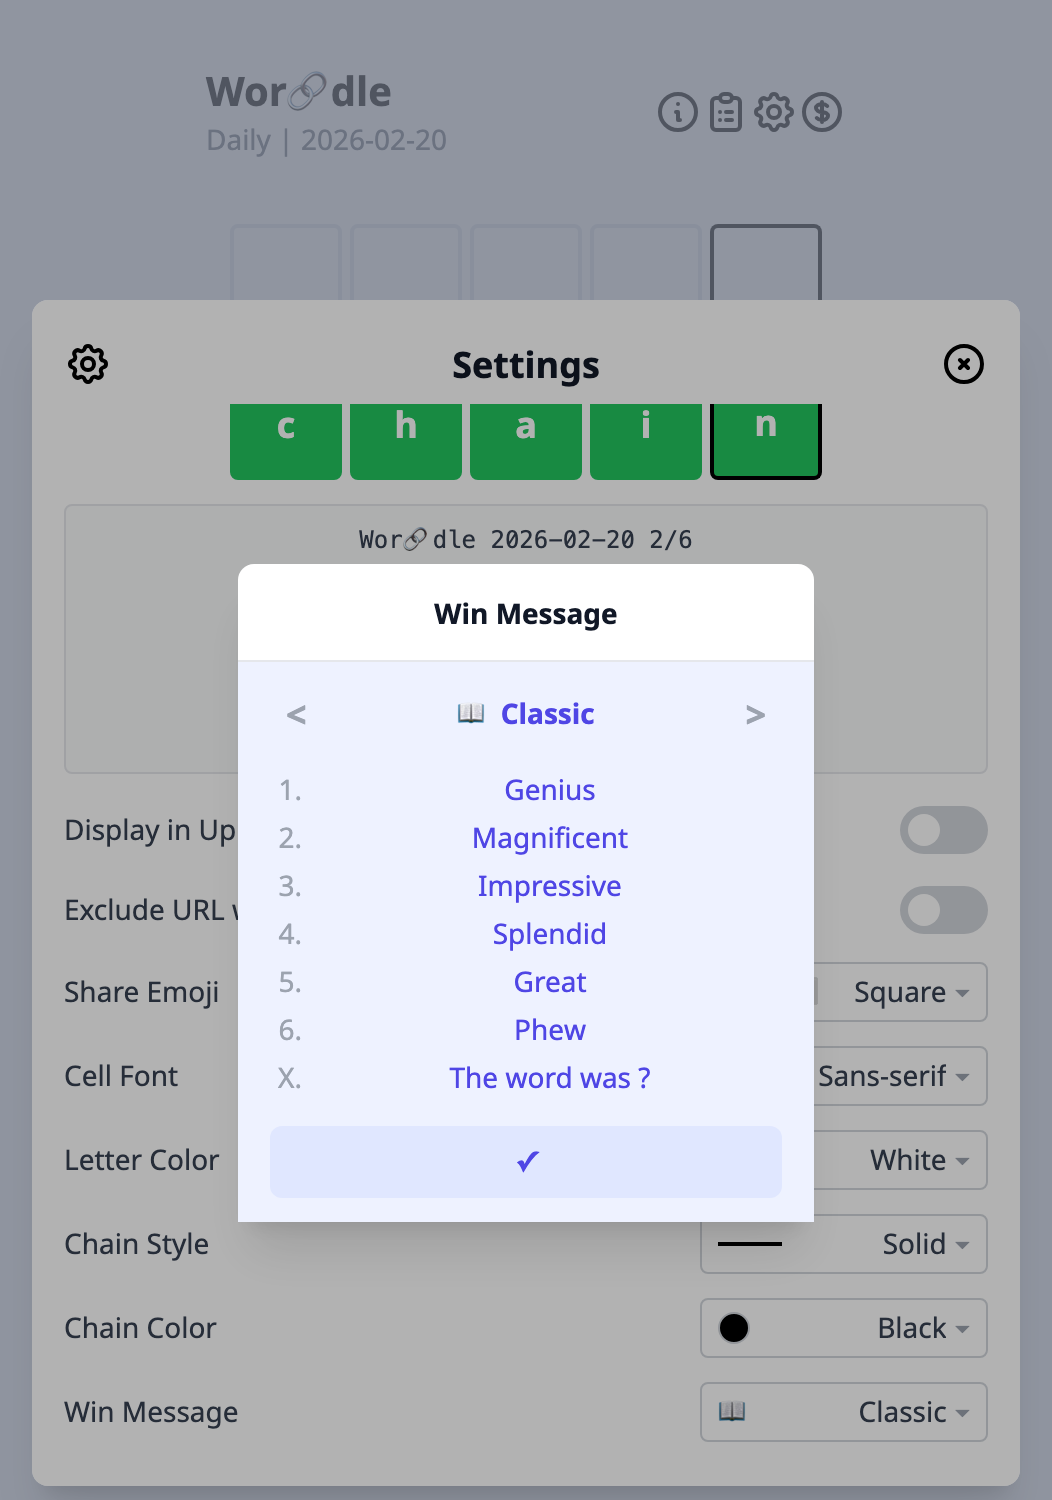
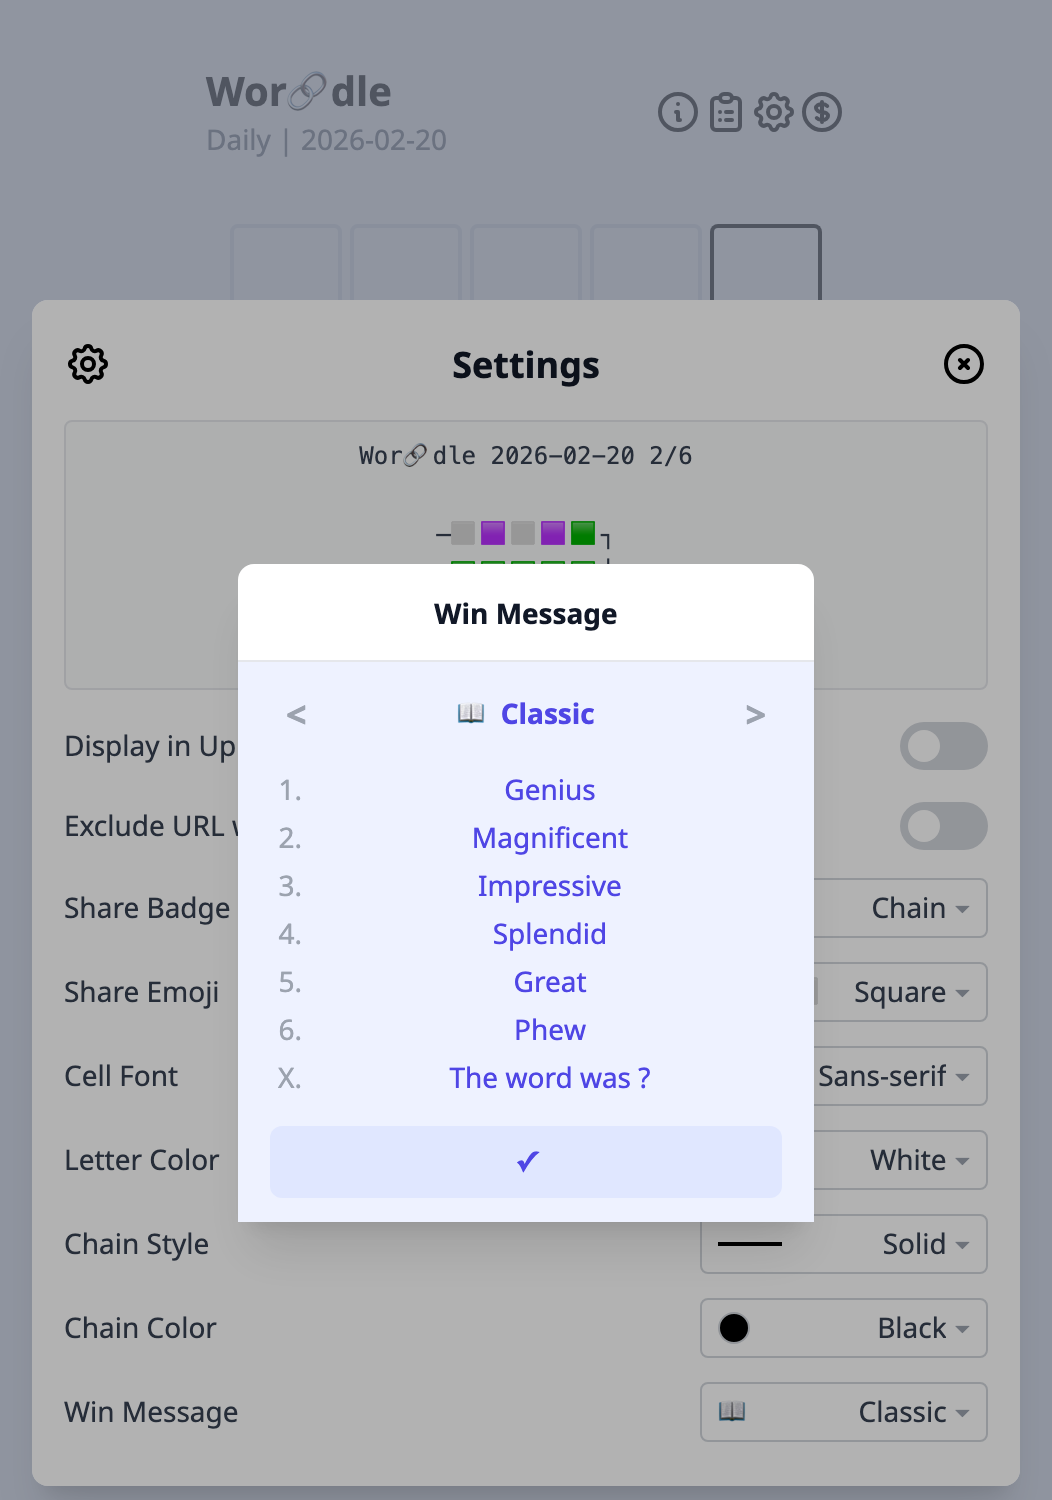
docs: update README for v1.6.0

Changed region(s): [[0.2129, 0.2453, 0.7909, 0.368], [0.0608, 0.4907, 0.2129, 0.6133], [0.8213, 0.46, 0.943, 0.644]]

diff --git a/scripts/generate-readme-screenshots.spec.ts b/scripts/generate-readme-screenshots.spec.ts
@@ -9,7 +9,10 @@ import {
 import { PATCH_NOTES_VERSION } from '../src/constants/config'
 
 // Skip unless explicitly opted in via: GENERATE_SCREENSHOTS=1 npm run readme:screenshots
-test.skip(() => !process.env.GENERATE_SCREENSHOTS, 'Set GENERATE_SCREENSHOTS=1 to run')
+test.skip(
+  () => !process.env.GENERATE_SCREENSHOTS,
+  'Set GENERATE_SCREENSHOTS=1 to run'
+)
 
 const ASSETS = path.resolve(__dirname, '..', 'assets')
 const HYDRO_PATH = `/#/custom/${encodeCustomPuzzle('hydro', 'ootzk')}`
@@ -29,9 +32,7 @@ async function initPage(page: Page) {
     window.addEventListener('keydown', (e) => {
       if (
         e.code === 'Backspace' &&
-        !['INPUT', 'TEXTAREA'].includes(
-          (document.activeElement?.tagName ?? '')
-        )
+        !['INPUT', 'TEXTAREA'].includes(document.activeElement?.tagName ?? '')
       ) {
         e.preventDefault()
       }
@@ -70,7 +71,9 @@ test('game flow: empty board → win → success', async ({ page }) => {
   await submitWord(page, 'hydr')
 
   // Wait for success alert
-  await page.locator('.bg-green-200').waitFor({ state: 'visible', timeout: 3000 })
+  await page
+    .locator('.bg-green-200')
+    .waitFor({ state: 'visible', timeout: 3000 })
   await page.waitForTimeout(500)
   await save(page, 'success')
 })
@@ -102,7 +105,9 @@ test('daily statistics modal', async ({ page }) => {
   await waitForGameReady(page)
 
   // Stats modal auto-opens (completed game detected)
-  await page.locator('text=Statistics').waitFor({ state: 'visible', timeout: 8000 })
+  await page
+    .locator('text=Statistics')
+    .waitFor({ state: 'visible', timeout: 8000 })
   await page.waitForTimeout(500)
   await save(page, 'statistics')
 })
@@ -116,15 +121,17 @@ test('dead end scenario', async ({ page }) => {
 
   // Guesses 1-3: same as win scenario
   await submitWord(page, 'shake') // 1. SHAKE → chain E right
-  await submitWord(page, 'lanc')  // 2. LANCE → chain L left
-  await submitWord(page, 'ores')  // 3. LORES → chain S right
+  await submitWord(page, 'lanc') // 2. LANCE → chain L left
+  await submitWord(page, 'ores') // 3. LORES → chain S right
 
   // Guesses 4-5: diverge to create dead end
-  await submitWord(page, 'feat')  // 4. FEATS (S locked) → chain F left
-  await submitWord(page, 'lint')  // 5. FLINT (F locked) → chain T right → T ≠ O → dead end!
+  await submitWord(page, 'feat') // 4. FEATS (S locked) → chain F left
+  await submitWord(page, 'lint') // 5. FLINT (F locked) → chain T right → T ≠ O → dead end!
 
   // Wait for dead-end loss alert
-  await page.locator('text=The word was hydro').waitFor({ state: 'visible', timeout: 3000 })
+  await page
+    .locator('text=The word was hydro')
+    .waitFor({ state: 'visible', timeout: 3000 })
   await page.waitForTimeout(500)
   await save(page, 'dead-end')
 })
@@ -146,7 +153,10 @@ test('monthly calendar with history', async ({ page }) => {
   const end = new Date('2026-03-12T00:00:00Z')
   for (let dt = new Date(epoch); dt < end; dt.setUTCDate(dt.getUTCDate() + 1)) {
     const d = dt.getUTCDate()
-    const key = `${dt.getUTCFullYear()}-${String(dt.getUTCMonth() + 1).padStart(2, '0')}-${String(d).padStart(2, '0')}`
+    const key = `${dt.getUTCFullYear()}-${String(dt.getUTCMonth() + 1).padStart(
+      2,
+      '0'
+    )}-${String(d).padStart(2, '0')}`
     const won = d % 5 !== 0
     history[key] = { guessCount: won ? (d % 4) + 2 : 6, won }
   }
@@ -242,10 +252,26 @@ test('patch notes modal', async ({ page }) => {
     localStorage.setItem('i18nextLng', 'en')
   })
   await page.goto('/')
-  await page.locator('button', { hasText: 'Enter' }).waitFor({ state: 'visible' })
-  await page.getByRole('heading', { name: "What's New" }).waitFor({ state: 'visible', timeout: 5000 })
+  await page
+    .locator('button', { hasText: 'Enter' })
+    .waitFor({ state: 'visible' })
+  await page
+    .getByRole('heading', { name: "What's New" })
+    .waitFor({ state: 'visible', timeout: 5000 })
   await page.waitForTimeout(500)
   await save(page, 'patch-note')
+})
+
+test('patch notes history tab', async ({ page }) => {
+  await initPage(page)
+  await page.goto('/')
+  await waitForGameReady(page)
+
+  await page.locator('svg.h-6.w-6.cursor-pointer').nth(0).click()
+  await page.locator('text=Information').waitFor({ state: 'visible' })
+  await page.locator('text=Patch Notes').click()
+  await page.waitForTimeout(500)
+  await save(page, 'patch-notes-history')
 })
 
 test('practice mode', async ({ page }) => {
@@ -284,7 +310,9 @@ test('donate modal', async ({ page }) => {
 test('create puzzle — copied state', async ({ page }) => {
   await initPage(page)
   await page.goto('/#/create')
-  await page.locator('button', { hasText: 'Enter' }).waitFor({ state: 'visible' })
+  await page
+    .locator('button', { hasText: 'Enter' })
+    .waitFor({ state: 'visible' })
 
   // Enter questioner name
   await page.locator('input[placeholder]').fill('ootzk')
@@ -312,7 +340,7 @@ test('custom puzzle — playing', async ({ page }) => {
   await save(page, 'custom-puzzle')
 })
 
-// ── v1.5.0: Achievements & Cosmetics Screenshots ──
+// ── v1.5.0+v1.6.0: Achievements & Cosmetics Screenshots ──
 
 test('achievements tab with unlocked and locked', async ({ page }) => {
   await initPage(page)
@@ -329,18 +357,37 @@ test('achievements tab with unlocked and locked', async ({ page }) => {
     }
     localStorage.setItem('gameStats', JSON.stringify(stats))
     const now = Date.now()
-    localStorage.setItem('achievementState', JSON.stringify({
-      version: 1,
-      unlocked: {
-        play_10: { unlockedAt: now },
-        win_in_4: { unlockedAt: now },
-        win_in_5: { unlockedAt: now },
-        win_in_6: { unlockedAt: now },
-        streak_3: { unlockedAt: now },
-      },
-      retroCompleted: true,
-      lastSeenAt: 0,
-    }))
+    localStorage.setItem(
+      'achievementState',
+      JSON.stringify({
+        version: 2,
+        unlocked: {
+          play_10: { unlockedAt: now },
+          win_in_4: { unlockedAt: now },
+          win_in_5: { unlockedAt: now },
+          win_in_6: { unlockedAt: now },
+          streak_3: { unlockedAt: now },
+          played_v1_6_0_5: { unlockedAt: now },
+          practice_win_100: { unlockedAt: now },
+          custom_win_10: { unlockedAt: now },
+        },
+        retroCompleted: true,
+        lastSeenAt: 0,
+      })
+    )
+    localStorage.setItem(
+      'achievementProgress',
+      JSON.stringify({
+        modes: {
+          daily: { gamesCompleted: 22, gamesWon: 19 },
+          practice: { gamesCompleted: 118, gamesWon: 100 },
+          custom: { gamesCompleted: 10, gamesWon: 10 },
+        },
+        versions: {
+          '1.6.0': { gamesCompleted: 5 },
+        },
+      })
+    )
   })
 
   await page.goto('/')
@@ -360,26 +407,36 @@ test('settings with cosmetics and sample view', async ({ page }) => {
   // Unlock some achievements for cosmetic options
   await page.addInitScript(() => {
     const now = Date.now()
-    localStorage.setItem('achievementState', JSON.stringify({
-      version: 1,
-      unlocked: {
-        play_10: { unlockedAt: now },
-        streak_3: { unlockedAt: now },
-        win_in_6: { unlockedAt: now },
-      },
-      retroCompleted: true,
-    }))
-    // Equip circle emoji to show cosmetic effect in sample view
-    localStorage.setItem('cosmeticState', JSON.stringify({
-      equipped: {
-        shareEmoji: 'emoji_circle',
-        cellFont: 'font_default',
-        cellColor: 'color_default',
-        chainStyle: 'chain_default',
-        chainColor: 'chaincolor_black',
-        endMessage: 'msg_classic',
-      },
-    }))
+    localStorage.setItem(
+      'achievementState',
+      JSON.stringify({
+        version: 2,
+        unlocked: {
+          play_10: { unlockedAt: now },
+          streak_3: { unlockedAt: now },
+          win_in_6: { unlockedAt: now },
+          streak_14: { unlockedAt: now },
+          bibimbap_balance: { unlockedAt: now },
+          yogurt_recipe: { unlockedAt: now },
+        },
+        retroCompleted: true,
+      })
+    )
+    // Equip v1.6.0 cosmetics to show their effect in the sample/share preview.
+    localStorage.setItem(
+      'cosmeticState',
+      JSON.stringify({
+        equipped: {
+          shareBadge: 'badge_fire',
+          shareEmoji: 'emoji_bibimbap',
+          cellFont: 'font_default',
+          cellColor: 'color_default',
+          chainStyle: 'chain_default',
+          chainColor: 'chaincolor_black',
+          endMessage: 'msg_classic',
+        },
+      })
+    )
   })
 
   await page.goto('/')
@@ -397,14 +454,20 @@ test('cosmetic picker popup', async ({ page }) => {
 
   await page.addInitScript(() => {
     const now = Date.now()
-    localStorage.setItem('achievementState', JSON.stringify({
-      version: 1,
-      unlocked: {
-        play_10: { unlockedAt: now },
-        streak_3: { unlockedAt: now },
-      },
-      retroCompleted: true,
-    }))
+    localStorage.setItem(
+      'achievementState',
+      JSON.stringify({
+        version: 2,
+        unlocked: {
+          play_10: { unlockedAt: now },
+          streak_3: { unlockedAt: now },
+          win_in_3: { unlockedAt: now },
+          bibimbap_balance: { unlockedAt: now },
+          yogurt_recipe: { unlockedAt: now },
+        },
+        retroCompleted: true,
+      })
+    )
   })
 
   await page.goto('/')
@@ -423,14 +486,17 @@ test('alert message theme picker', async ({ page }) => {
 
   await page.addInitScript(() => {
     const now = Date.now()
-    localStorage.setItem('achievementState', JSON.stringify({
-      version: 1,
-      unlocked: {
-        win_in_6: { unlockedAt: now },
-        streak_30: { unlockedAt: now },
-      },
-      retroCompleted: true,
-    }))
+    localStorage.setItem(
+      'achievementState',
+      JSON.stringify({
+        version: 2,
+        unlocked: {
+          win_in_6: { unlockedAt: now },
+          streak_30: { unlockedAt: now },
+        },
+        retroCompleted: true,
+      })
+    )
   })
 
   await page.goto('/')

diff --git a/scripts/readme-screenshots.config.ts b/scripts/readme-screenshots.config.ts
@@ -1,4 +1,7 @@
 import { defineConfig } from '@playwright/test'
+import path from 'path'
+
+const ROOT = path.resolve(__dirname, '..')
 
 export default defineConfig({
   testDir: '.',
@@ -23,9 +26,10 @@ export default defineConfig({
   ],
 
   webServer: {
-    command: 'npm run build && npx serve -s build -l 3000',
+    command: 'env PUBLIC_URL=/ npm run build && npx serve -s build -l 3000',
+    cwd: ROOT,
     url: 'http://localhost:3000',
     reuseExistingServer: true,
-    timeout: 120_000,
+    timeout: 180_000,
   },
 })

diff --git a/README.md b/README.md
@@ -89,10 +89,14 @@ ootzk.github.io/Wor-chain-dle
 
 ## Features
 
-New features are introduced through a one-time "What's New" popup on your first visit after an update.
+### Patch Notes & Update History
+
+New features are introduced through a one-time "What's New" popup on your first visit after an update. The Information modal also includes a Patch Notes tab, so you can browse previous updates by version and release date.
 
 <p align="center">
-  <img src="assets/patch-note.png" alt="What's New in v1.4.0" width="300" />
+  <img src="assets/patch-note.png" alt="What's New in v1.6.0" width="300" />
+  &nbsp;&nbsp;
+  <img src="assets/patch-notes-history.png" alt="Patch Notes history" width="300" />
 </p>
 
 ### Create & Share Custom Puzzles
@@ -150,7 +154,7 @@ ootzk.github.io/Wor-chain-dle
 
 ### Achievements
 
-Earn achievements by reaching milestones, winning streaks, and mastering guess counts. Track your progress with difficulty stars and progress bars. Newly unlocked achievements are highlighted with a "NEW!" tag. Each achievement unlocks a cosmetic reward.
+Earn achievements by reaching milestones, winning streaks, mastering guess counts, or triggering special puzzle events. Each card shows which mode can unlock it: Daily, Practice, Custom, or All. Newly unlocked achievements are highlighted with a "NEW!" tag, and each achievement unlocks a cosmetic reward.
 
 <p align="center">
   <img src="assets/achievements.png" alt="Achievements" width="300" />
@@ -160,7 +164,8 @@ Earn achievements by reaching milestones, winning streaks, and mastering guess c
 
 Customize your game's look with unlocked cosmetic items:
 
-- **Share Emoji** — Change the emoji set used in share text (🟩🟪⬜ → 🟢🟣⚪ or 💚💜🤍)
+- **Share Badge** — Replace the title symbol in shared results (Wor🔗dle → Wor🔥dle, Wor🦎dle, Wor💯dle)
+- **Share Emoji** — Change the emoji set used in share text (🟩🟪⬜ → 🟢🟣⚪, 💚💜🤍, 🥬🍆🍚, or 🍏🍇🥛)
 - **Cell Font** — Switch between Sans-serif, Pixel, or Marker fonts
 - **Letter Color** — White, Gold, or Black text on tiles
 - **Chain Style** — Solid, Dashed, or Thick chain lines
